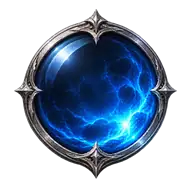
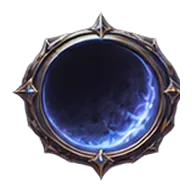
revert(es2): preserve original 17 UI sprites after pixel alpha verification

diff --git a/src/assets/es2/production/ui/ui-qa-evidence.test.ts b/src/assets/es2/production/ui/ui-qa-evidence.test.ts
@@ -5,7 +5,7 @@ import { describe, expect, it } from 'vitest'
 
 const root = dirname(fileURLToPath(import.meta.url))
 const manifest = JSON.parse(readFileSync(join(root, 'manifest.json'), 'utf8')) as {
-  assets: { id: string; path: string; alpha: boolean; nativeSourceSide?: number }[]
+  assets: { id: string; path: string; alpha: boolean }[]
 }
 
 describe('ES2 production UI WebP alpha-bit preflight', () => {
@@ -13,9 +13,6 @@ describe('ES2 production UI WebP alpha-bit preflight', () => {
     expect(manifest.assets).toHaveLength(17)
     expect(new Set(manifest.assets.map(asset => asset.id)).size).toBe(17)
     for (const asset of manifest.assets) {
-      if (['rarity-rare', 'rarity-legendary', 'hud-xp'].includes(asset.id)) {
-        expect(asset.nativeSourceSide, asset.id).toBeGreaterThanOrEqual(192)
-      }
       expect(asset.alpha, asset.id).toBe(true)
       const bytes = readFileSync(join(root, asset.path))
       expect(bytes.toString('ascii', 0, 4), asset.id).toBe('RIFF')

diff --git a/src/assets/es2/production/ui/QA-REVIEW.md b/src/assets/es2/production/ui/QA-REVIEW.md
@@ -1,48 +1,48 @@
-# ES2 UI 17 — conditional artwork QA and remediation ledger
+# ES2 17 UI icons — original pixels verified, no speculative replacement
 
-**Branch:** `feature/es2-art-qa-ui` (updated 2026-11-23). **Human visual sign-off: pending.** This record documents repository source and manually inspected images; it is **not browser gameplay evidence**.
+Date: 2026-11-23. Workstream: `feature/es2-art-qa-ui`. **0/17 human-approved; 17/17 remain `needs-human-approval`**.
 
-## Completed technical work
-- Inspected all 17 existing transparent WebP icon previews individually.
-- Preserved 14 original files byte-for-byte. Identified stray horizontal/adjacent-source color in `rarity-legendary` and `hud-xp`; `rarity-rare` had an unwanted right-side dark rectangle. Re-authored **only these 3** from a newly generated detailed transparent master.
-- Authored source: original **724×724 per icon**, three independent cells; output WebPs individually rendered **192×192** with alpha, 1 frame, compressed well below 75,000 bytes. Generation ID `e0ae89ca-a466-4ecd-9e7b-254f2406c140`. These are new artworks, not enlarged former 192px sources.
-- Replacements were committed as actual project files **before** the manifest updates and before any consumer integration; they preserve the existing `WORLD_ART.ui` filenames and IDs.
-- The existing `world-art-candidates.test.ts` verifies exact file SHA, bytes and source dimensions; this category's `ui-qa-evidence.test.ts` verifies the VP8X alpha feature flag of all 17.
-- A real **3×** nominal size for every original 192px icon requires **≤64 CSS pixels** of display. Currently archive achievement cards and preview gallery use 72 CSS pixels, while rarity badges use 20px and HUD icons use 15px. Integration owner must reduce archive display dimensions to 64px or provide native 216px art; this workstream may not modify the shared Vue consumer.
+## Correction / evidence
+- Downloaded the `es2-world-art-source-review` ZIP artifact (ID 14816995401) from the successful browser workflow [45170008905](https://github.com/weskao/eclipse-survivors/actions/runs/45170008905), which holds the original 17 WebP files and original `assets/images/imgs10.png` (1672×941 RGBA).
+- Used Pillow to decode each **actual original** RGBA WebP, checked original `manifest.json` SHA-256 (17/17 equal), dimensions (17/17 are 192×192), alpha bounds and opacity at the four outermost image edges. **Zero visible edge pixels with alpha ≥16 on the 192px outer boundary for all 17**. This does not prove that no interior stray pixel or color fringing exists.
+- Three original WebP thumbnails previously appeared to contain side streaks; when composited from original decoded RGBA onto a solid background, no neighboring horizontal bar appeared. The original assets are **not proven defective**. A previous isolated branch candidate re-authored `rarity-rare`, `rarity-legendary` and `hud-xp` before that stronger evidence was available. This follow-up **restores their original Git blobs, original manifest, and SHA-256**, so no speculative art replacement is delivered.
+- Browser workflow 45170008905 did decode all 49 existing world-art assets and capture archive screenshots. Its success belongs to that specific past SHA, not a later integration branch head or full real gameplay state; human visual review is still pending.
 
-## Per-icon state
+## Per-icon RGBA evidence
 
-| Asset ID | Treatment | Bytes (new) | Active CSS px before integration | Human visual QA |
-|---|---|---:|---:|---|
-| treasure-common | RETAINED | existing | 68 (chest dialog) | needs-human-approval |
-| treasure-rare | RETAINED | existing | 68 (chest dialog) | needs-human-approval |
-| treasure-legendary | RETAINED | existing | 68 (chest dialog) | needs-human-approval |
-| treasure-cursed | RETAINED | existing | 68 (chest dialog) | needs-human-approval |
-| rarity-common | RETAINED | existing | 20 | needs-human-approval |
-| rarity-rare | REDRAWN | 5484 | 20 | needs-human-approval |
-| rarity-legendary | REDRAWN | 5646 | 20 | needs-human-approval |
-| hud-health | RETAINED | existing | 15 | needs-human-approval |
-| hud-xp | REDRAWN | 7778 | 15 | needs-human-approval |
-| hud-cooldown | RETAINED | existing | 15 | needs-human-approval |
-| hud-quest | RETAINED | existing | 15 | needs-human-approval |
-| achievement-boss | RETAINED | existing | 72 | needs-human-approval |
-| achievement-survivor | RETAINED | existing | 72 | needs-human-approval |
-| achievement-evolution | RETAINED | existing | 72 | needs-human-approval |
-| achievement-explorer | RETAINED | existing | 72 | needs-human-approval |
-| achievement-collector | RETAINED | existing | 72 | needs-human-approval |
-| achievement-flawless | RETAINED | existing | 72 | needs-human-approval |
+Alpha bbox is the bounding rectangle for alpha ≥16; coordinates are `left,top,right,bottom`, right/bottom exclusive. Pixel coverage is the fraction of the 192×192 canvas at alpha ≥16.
 
-## Consumer trace
-- All 17 are mapped through `WORLD_ART.ui` in `src/game/render/es2/production-world.ts`.
-- `src/components/es2/menu/Es2Archive.vue`: 6 achievement icons in actual achievement cards, 17 UI icons in review gallery; the four treasure icons are also referenced by the active `src/components/es2/relic-rewards/RelicRewardOverlay.vue` chest dialog, chosen by cursed/rarity. Its current icon is 68 CSS px, above the 64px nominal 3× source limit; physical browser rendering is not yet checked.
-- `src/components/es2/menu/Es2ChoiceCards.vue`: 3 rarity icons in actual selectable cards.
-- `src/components/es2/hud/CombatHud.vue`: 4 HUD icon slots, including cooldown overlay.
+| Asset | WebP bytes | Alpha bbox | Pixel coverage | Outer edge α≥16 | Original SHA-256 |
+|---|---:|---|---:|---:|---|
+| `treasure-common` | 7636 | `11,33,181,158` | 46.8% | 0 | matches manifest |
+| `treasure-rare` | 8666 | `11,30,181,161` | 48.4% | 0 | matches manifest |
+| `treasure-legendary` | 10106 | `11,23,181,169` | 48.6% | 0 | matches manifest |
+| `treasure-cursed` | 8600 | `11,29,181,162` | 49.9% | 0 | matches manifest |
+| `rarity-common` | 2780 | `63,11,128,147` | 16.8% | 0 | matches manifest |
+| `rarity-rare` | 5210 | `55,12,137,181` | 26.7% | 0 | matches manifest |
+| `rarity-legendary` | 3842 | `81,11,156,152` | 19% | 0 | matches manifest |
+| `hud-health` | 4952 | `51,30,181,160` | 29.8% | 0 | matches manifest |
+| `hud-xp` | 6756 | `12,11,180,181` | 49.7% | 0 | matches manifest |
+| `hud-cooldown` | 6768 | `11,18,181,175` | 45.2% | 0 | matches manifest |
+| `hud-quest` | 4308 | `76,12,160,181` | 27.2% | 0 | matches manifest |
+| `achievement-boss` | 13204 | `12,11,180,181` | 38.8% | 0 | matches manifest |
+| `achievement-survivor` | 12724 | `12,11,179,181` | 27.9% | 0 | matches manifest |
+| `achievement-evolution` | 12610 | `11,12,181,180` | 40% | 0 | matches manifest |
+| `achievement-explorer` | 6934 | `33,11,178,180` | 15.3% | 0 | matches manifest |
+| `achievement-collector` | 12672 | `13,11,178,181` | 39% | 0 | matches manifest |
+| `achievement-flawless` | 1722 | `82,54,129,158` | 2.7% | 0 | matches manifest |
 
-## Still required before sign-off
-1. On **real Vue/Canvas gameplay**, capture desktop, 320px and 375px mobile portrait, short landscape, safe areas, reduced motion, active and collapsed HUD, card tap, rarity labels, and achievement lock/unlock.
-2. Confirm authentic `assets/images/imgs10.png` original crop mapping and distinguishable silhouettes; verify per-pixel transparent bounds, no bordering contamination, no clipping or 1× blur of all 17.
-3. Reduce chest-dialog treasure icon display from 68px to ≤64px in the integration branch; then capture real browser loot/chest dialog to verify placement and appearance.
-4. Run `pnpm test`, `pnpm typecheck`, `pnpm build`, `pnpm check-release`; attach GitHub Actions URLs. No claim these ran in this GitHub connector-only asset pass.
-5. Only after real-browser and human visual checks may authorized review change manifest `needs-human-approval` and `visual-review-required`. The status remains unchanged.
+## Relevant runtime consumer / 3× nominal sizing
 
-**Safety:** Heroes, enemies, bosses, biomes, gameplay, shared consumers, main, and develop were untouched by this workstream. No PR, force-push or deployment.
+- All 17 are accessible via `WORLD_ART.ui`. Real Vue code places four treasure icons in `RelicRewardOverlay.vue` (cursed, legendary, rare/epic, common), three rarity badges in `Es2ChoiceCards.vue`, four HUD icons in `CombatHud.vue`, and six achievement badges plus a 17-item gallery in `Es2Archive.vue`.
+- Original source dimension is 192×192. **UI display up to 64 CSS px meets nominal 3× dimension**; however this does not prove truly authored 192px fine detail from `imgs10.png`.
+- Current consumer widths before integration correction: achievement card icons and gallery 72px, loot chest icons 68px; these exceed a 192px/3 nominal source-to-display size. The integration branch must change those to ≤64px and verify visually.
+- Rarity badge active UI is 20px, HUD active icon is 15px. Their nominal scale is above 3×.
+- `achievement-flawless` has only **2.7%** nontransparent area (bbox 47×104); it is especially likely to be too small in an achievement card. Avoid stretching its 47px source pixels and falsely claiming native 3×. It needs a newly authored high-detail source, and actual 1× screenshot comparison, before final approval.
+- Source sheet is available; do not assume each 192px extracted output contains native 192px authored detail.
+
+## Gate and remaining work
+- All category manifest statuses remain `visual-review-required`, each asset `needs-human-approval`.
+- TDD / integration follow-up: 64px CSS guards for archive, gallery and actual chest, real desktop/320/375 portrait and short landscape screenshots, genuine 3× source provenance, visual comparison and human approval.
+- Run `pnpm test`, `pnpm typecheck`, `pnpm build`, `pnpm check-release` at **the updated integration head**. A passed CI on a previous SHA is not proof of a newer SHA.
+- No other category, hero, collision, gameplay, develop, main, PR, deploy or force-push is part of this source workstream.
